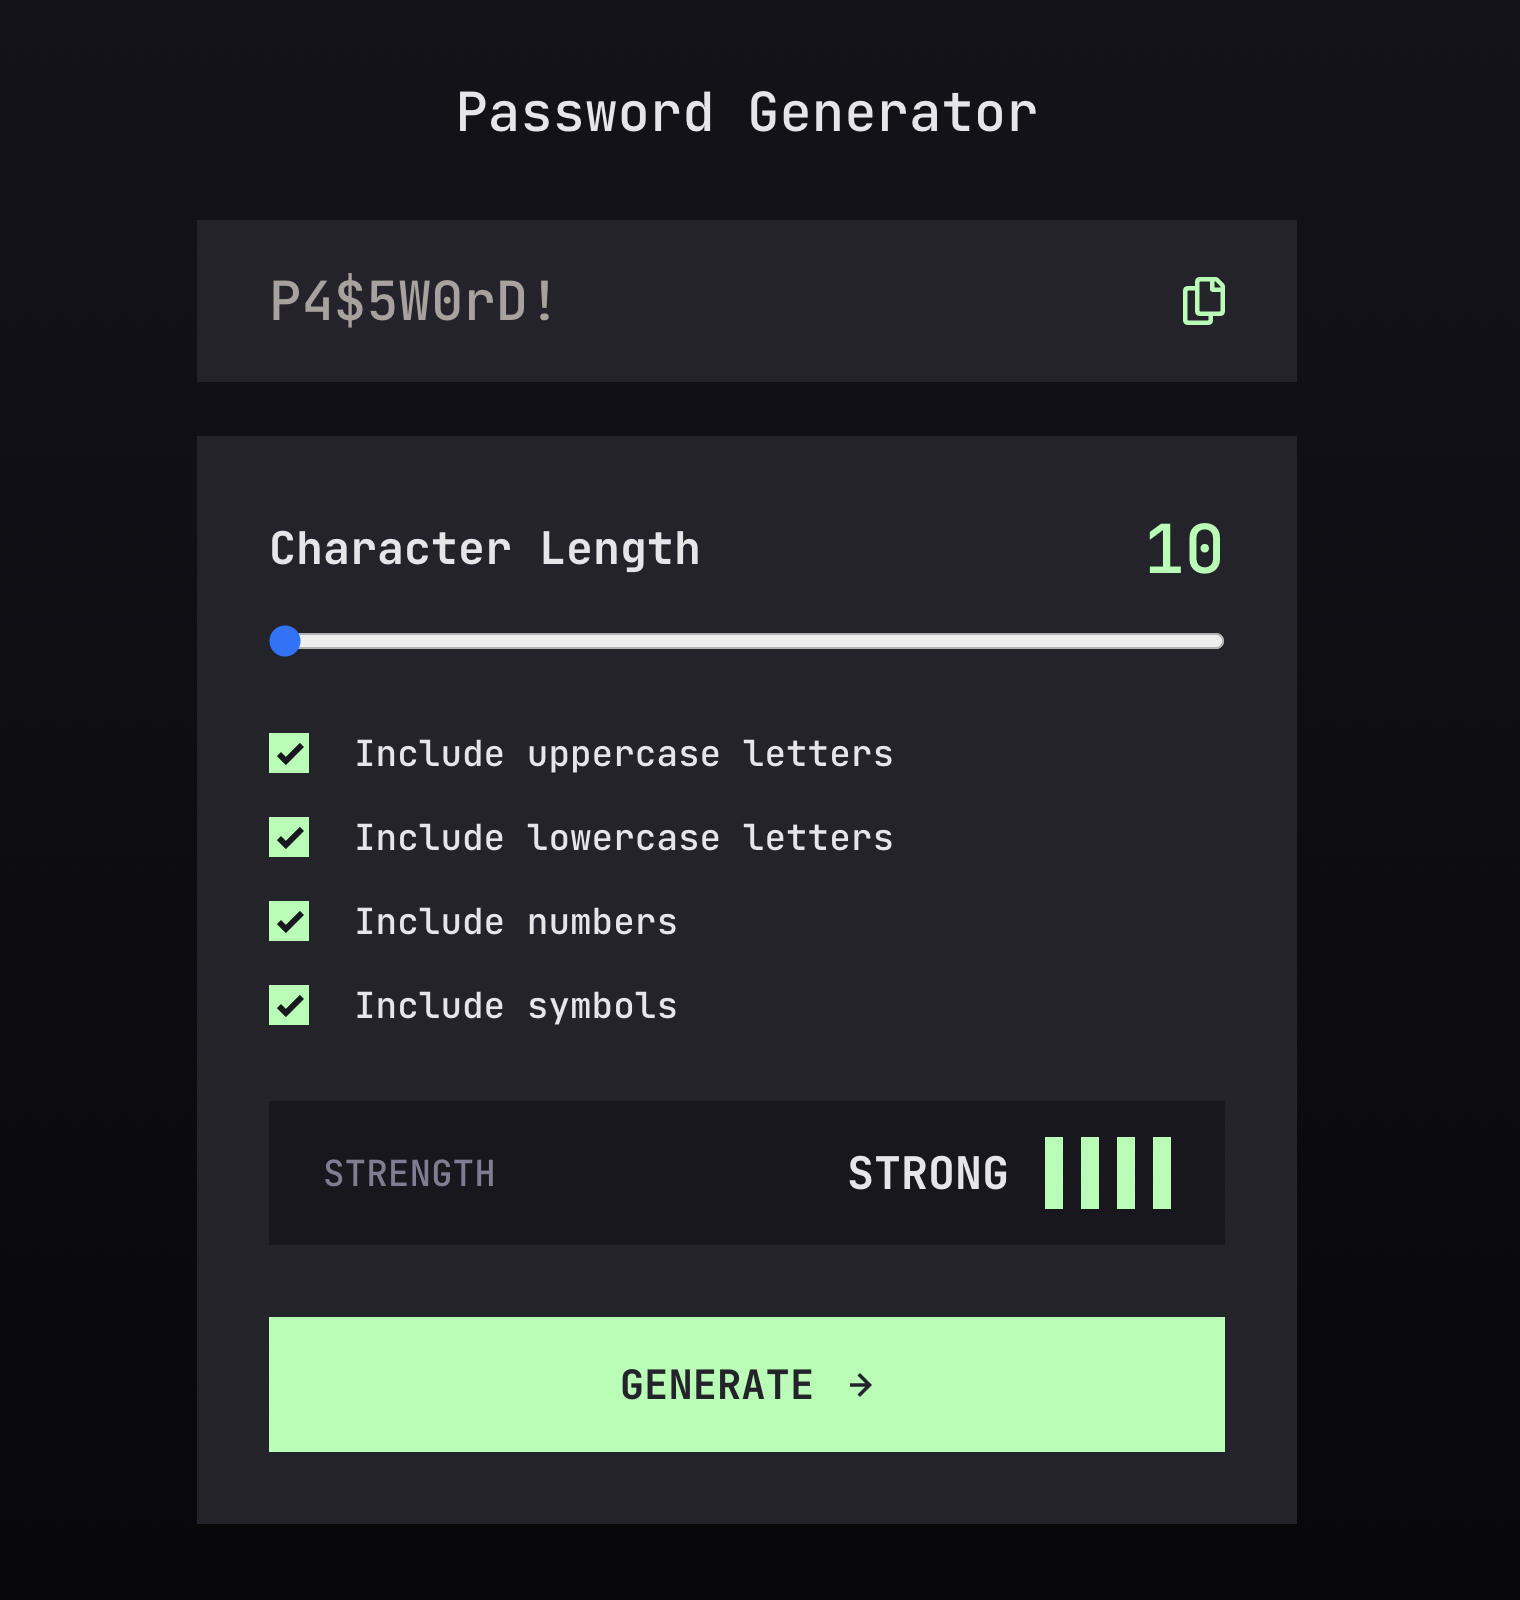
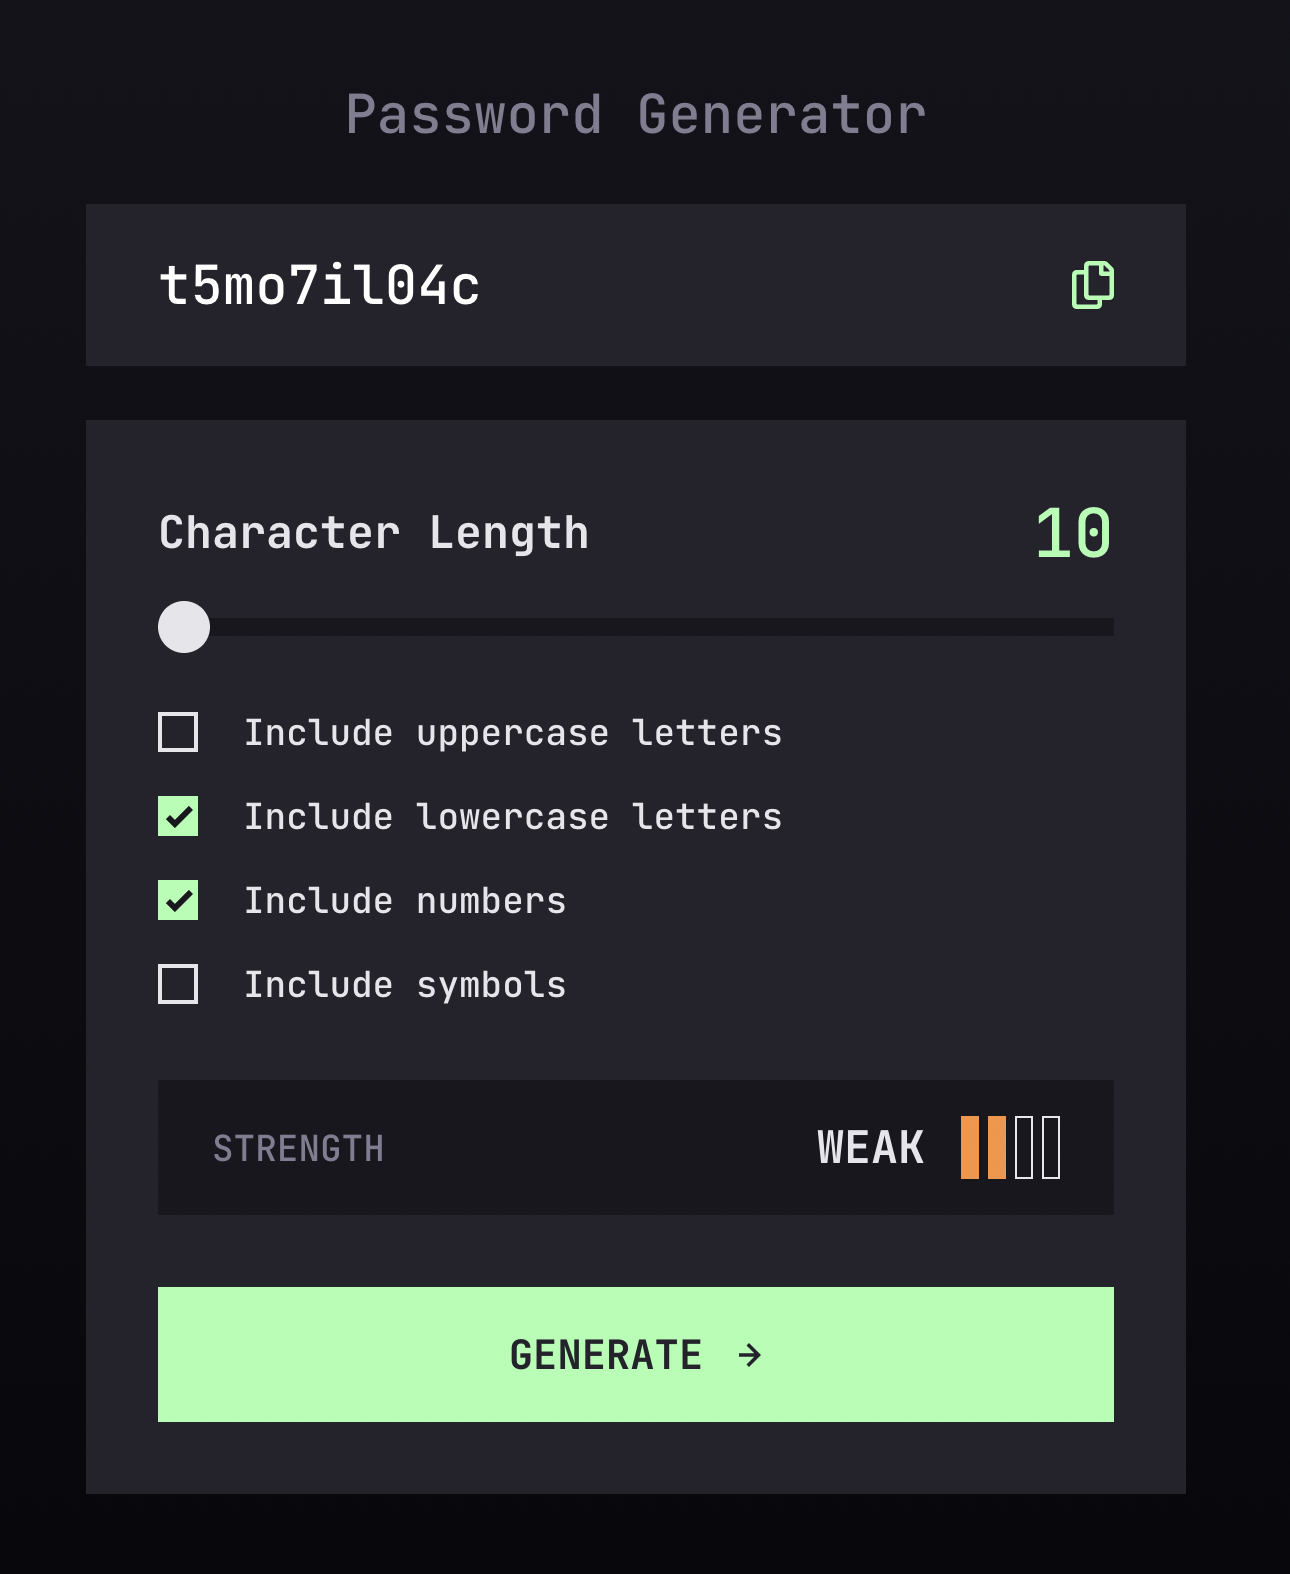
style: extra responsive classes, docs: preview img
* text size, spacings
* updated design img for readme

diff --git a/src/App.tsx b/src/App.tsx
@@ -216,9 +216,9 @@ function App() {
   }, [isCopied])
 
   return (
-    <div className='App flex place-items-center min-h-screen min-w-full bg-gradient-to-b from-[#14131b] to-[#08070b] text-[#e6e5ea]'>
-      <div className='generator w-full max-w-[400px] sm:max-w-[550px] mx-auto'>
-        <h1 className='text-2xl'>Password Generator</h1>
+    <div className='App flex sm:place-items-center min-h-screen min-w-full bg-gradient-to-b from-[#14131b] to-[#08070b] text-[#e6e5ea]'>
+      <div className='generator w-full max-w-[400px] sm:max-w-[550px] mx-auto text-center'>
+        <h1 className='text-xl sm:text-2xl text-[#817d92]'>Password Generator</h1>
 
         <form className='flex flex-col gap-4 sm:gap-6 mt-6' onSubmit={handleSubmit}>
           {/* Password */}
